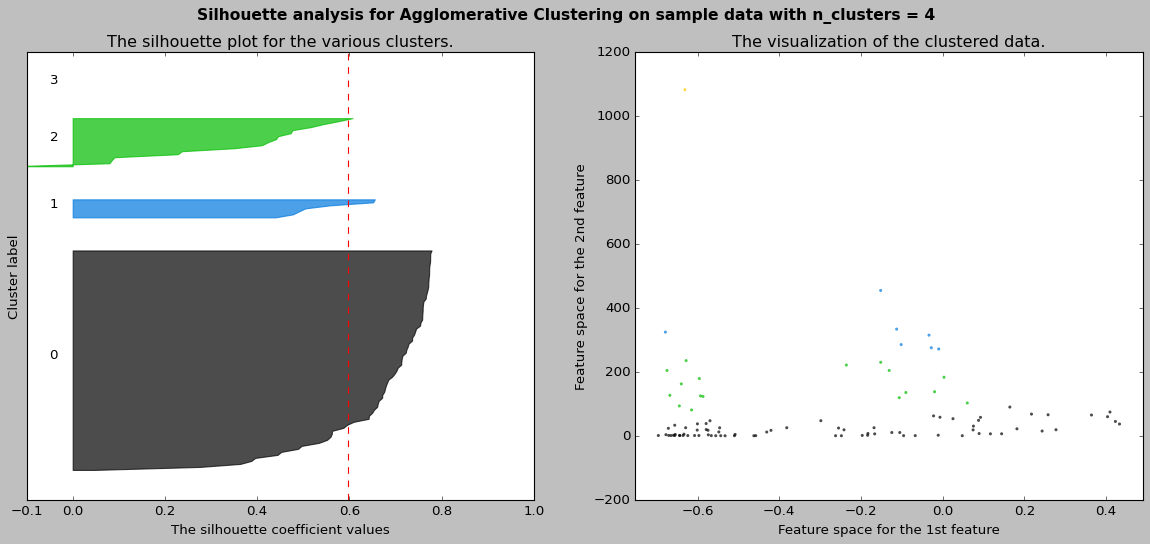
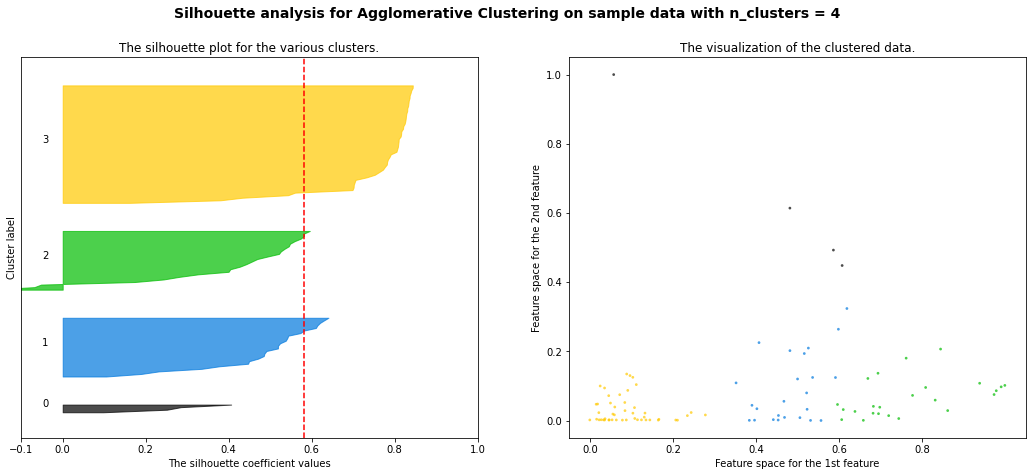
normalized update

diff --git a/README.md b/README.md
@@ -51,37 +51,22 @@ Also from the thickness of the silhouette plot the cluster size can be visualize
 
 
 #### Clustering 2 Features: (a2_x_mean & a1_x_amp_max)
-#### Max Score = 0.84
+#### Max Score = 0.64
 The highest silhouette score for 2 clusters, yet the outliers influence this score.
 From 3 clusters on, the score drops drastically.
 
 | Features and Clusters   | Scores                                               |
 |-------------------------|------------------------------------------------------|
 | a2_x_mean and a1_x_amp_max |  silhouette_avg                                      |
-| For n_clusters = 2      | The average silhouette_score is : 0.8391173340407827 |
-| For n_clusters = 3      | The average silhouette_score is : 0.5896726770101689 |
-| For n_clusters = 4      | The average silhouette_score is : 0.5876122410530076 |
-| For n_clusters = 5      | The average silhouette_score is : 0.576145435502854 |
-| For n_clusters = 6      | The average silhouette_score is : 0.41661611434422896 |
-| For n_clusters = 7      | The average silhouette_score is : 0.4488787240769407 |
+| For n_clusters = 2      | The average silhouette_score is : 0.6300868277980403 |
+| For n_clusters = 3      | The average silhouette_score is : 0.6437173078196544 |
+| For n_clusters = 4      | The average silhouette_score is : 0.5939285786276813 |
+| For n_clusters = 5      | The average silhouette_score is : 0.601409064582976 |
+| For n_clusters = 6      | The average silhouette_score is : 0.5861415589173682 |
+| For n_clusters = 7      | The average silhouette_score is : 0.4519906387081733 |
 
 ![n_clusters_3](assets/kmens_cl_2.png)
 ![n_clusters_3](assets/kmens_cl_3.png)
-
-
-#### Clustering 2 Features: (a2_x_mean and a2_x_amp_max)
-#### Max Score = 0.72
-This 2 features show the 2nd highest score and best avg score as the cluster number increases.
-
-| Features and Clusters   | Scores                                               |
-|-------------------------|------------------------------------------------------|
-| a2_x_mean and a2_x_amp_max |  silhouette_avg                                      |
-| For n_clusters = 2      | The average silhouette_score is : 0.7193140808576391 |
-| For n_clusters = 3      | The average silhouette_score is : 0.6971062066523174 |
-| For n_clusters = 4      | The average silhouette_score is : 0.6074239715611994 |
-| For n_clusters = 5      | The average silhouette_score is : 0.4776556949633035 |
-| For n_clusters = 6      | The average silhouette_score is : 0.47652959722799404 |
-| For n_clusters = 7      | The average silhouette_score is : 0.48445280262214047 |
 
 ![n_clusters_2](assets/feat_2_clust_2.png)
 ![n_clusters_3](assets/feat_2_clust_3.png)
@@ -155,16 +140,16 @@ The silhouette score differs from 2 features (red line) compared to 3/4/5 or 6 f
 ## Model Comparison
 
 ### Agglomerative Clustering Model: 
-#### Max Score = 0.88
-This score for n_clusters = 2 is influenced by the one outlier. For 3 to 7 clusters the score as well as the clustering is similar to the KMeans model.
-#### Features: a2_x_mean and a2_x_amp_max
+#### Max Score = 0.64
 
-For n_clusters = 2 The average silhouette_score is : 0.8817317199450385<br/>
-For n_clusters = 3 The average silhouette_score is : 0.637286509478433<br/>
-For n_clusters = 4 The average silhouette_score is : 0.5964118984493065<br/>
-For n_clusters = 5 The average silhouette_score is : 0.3881427768321534<br/>
-For n_clusters = 6 The average silhouette_score is : 0.38698240565343117<br/>
-For n_clusters = 7 The average silhouette_score is : 0.42267524009350654
+#### Features: a2_x_mean and a1_x_amp_max
+
+For n_clusters = 2 The average silhouette_score is : 0.6261942631298101<br/>
+For n_clusters = 3 The average silhouette_score is : 0.6457397862146368<br/>
+For n_clusters = 4 The average silhouette_score is : 0.5807329894489031<br/>
+For n_clusters = 5 The average silhouette_score is : 0.5858890560443617<br/>
+For n_clusters = 6 The average silhouette_score is : 0.5684539894734152<br/>
+For n_clusters = 7 The average silhouette_score is : 0.578559632028158
 
 ![agglomerative_cluster_2](assets/agglo_feat_2.png)
 ![agglomerative_cluster_3](assets/agglo_feat_3.png)
@@ -174,20 +159,20 @@ For n_clusters = 7 The average silhouette_score is : 0.42267524009350654
 #### Max Score = 0.50
 #### Features: a2_x_mean and a2_x_amp_max
 
-For n_clusters = 2 The average silhouette_score is : 0.5023390400726975<br/>
+For n_clusters = 7 The average silhouette_score is : 0.49510560787914276<br/>
 
 ![mean_shift_clust](assets/mean_shift.png)
 
 ### Spactral Clustering Model
-#### Max Score = 0.11
-#### Features: a2_x_mean and a2_x_amp_max
+#### Max Score = 0.63
+#### Features: a2_x_mean and a1_x_amp_max
 
-For n_clusters = 2 The average silhouette_score is : 0.11083940200971502<br/>
-For n_clusters = 3 The average silhouette_score is : 0.05755723390032442<br/>
-For n_clusters = 4 The average silhouette_score is : -0.1506008603176886<br/>
-For n_clusters = 5 The average silhouette_score is : -0.03327685423983772<br/>
-For n_clusters = 6 The average silhouette_score is : -0.16893632557173605<br/>
-For n_clusters = 7 The average silhouette_score is : -0.4212891907366274
+For n_clusters = 2 The average silhouette_score is : 0.6300868277980403<br/>
+For n_clusters = 3 The average silhouette_score is : 0.5912916685121626<br/>
+For n_clusters = 4 The average silhouette_score is : 0.5455073852729404<br/>
+For n_clusters = 5 The average silhouette_score is : 0.5081519232767612<br/>
+For n_clusters = 6 The average silhouette_score is : 0.3265517616076169<br/>
+For n_clusters = 7 The average silhouette_score is : 0.23977515877921424
 
 ![spactral_cluster_2](assets/spactral_2.png)
 ![spactral_cluster_3](assets/spactral_3.png)
@@ -211,9 +196,9 @@ For n_clusters = 7 The average silhouette_score is : -0.4212891907366274
 
 ##### Other Clustering models tried:
 
-* *Agglomerative Clustering*      --> max Score = 0.88
+* *Agglomerative Clustering*      --> max Score = 0.64
 * *MeanShift*                     --> max Score = 0.50
-* *Spactral Clustering*           --> max Score = 0.11
+* *Spactral Clustering*           --> max Score = 0.63
 
 ##### Final Word:
 The objective of gruping or clustering bearings by similar kinds of faults was not an easy task; the results show that none of the models used was able to differentiate such groups efficiently enough for us to see obvious separation in the faulty bearings.<br/>
